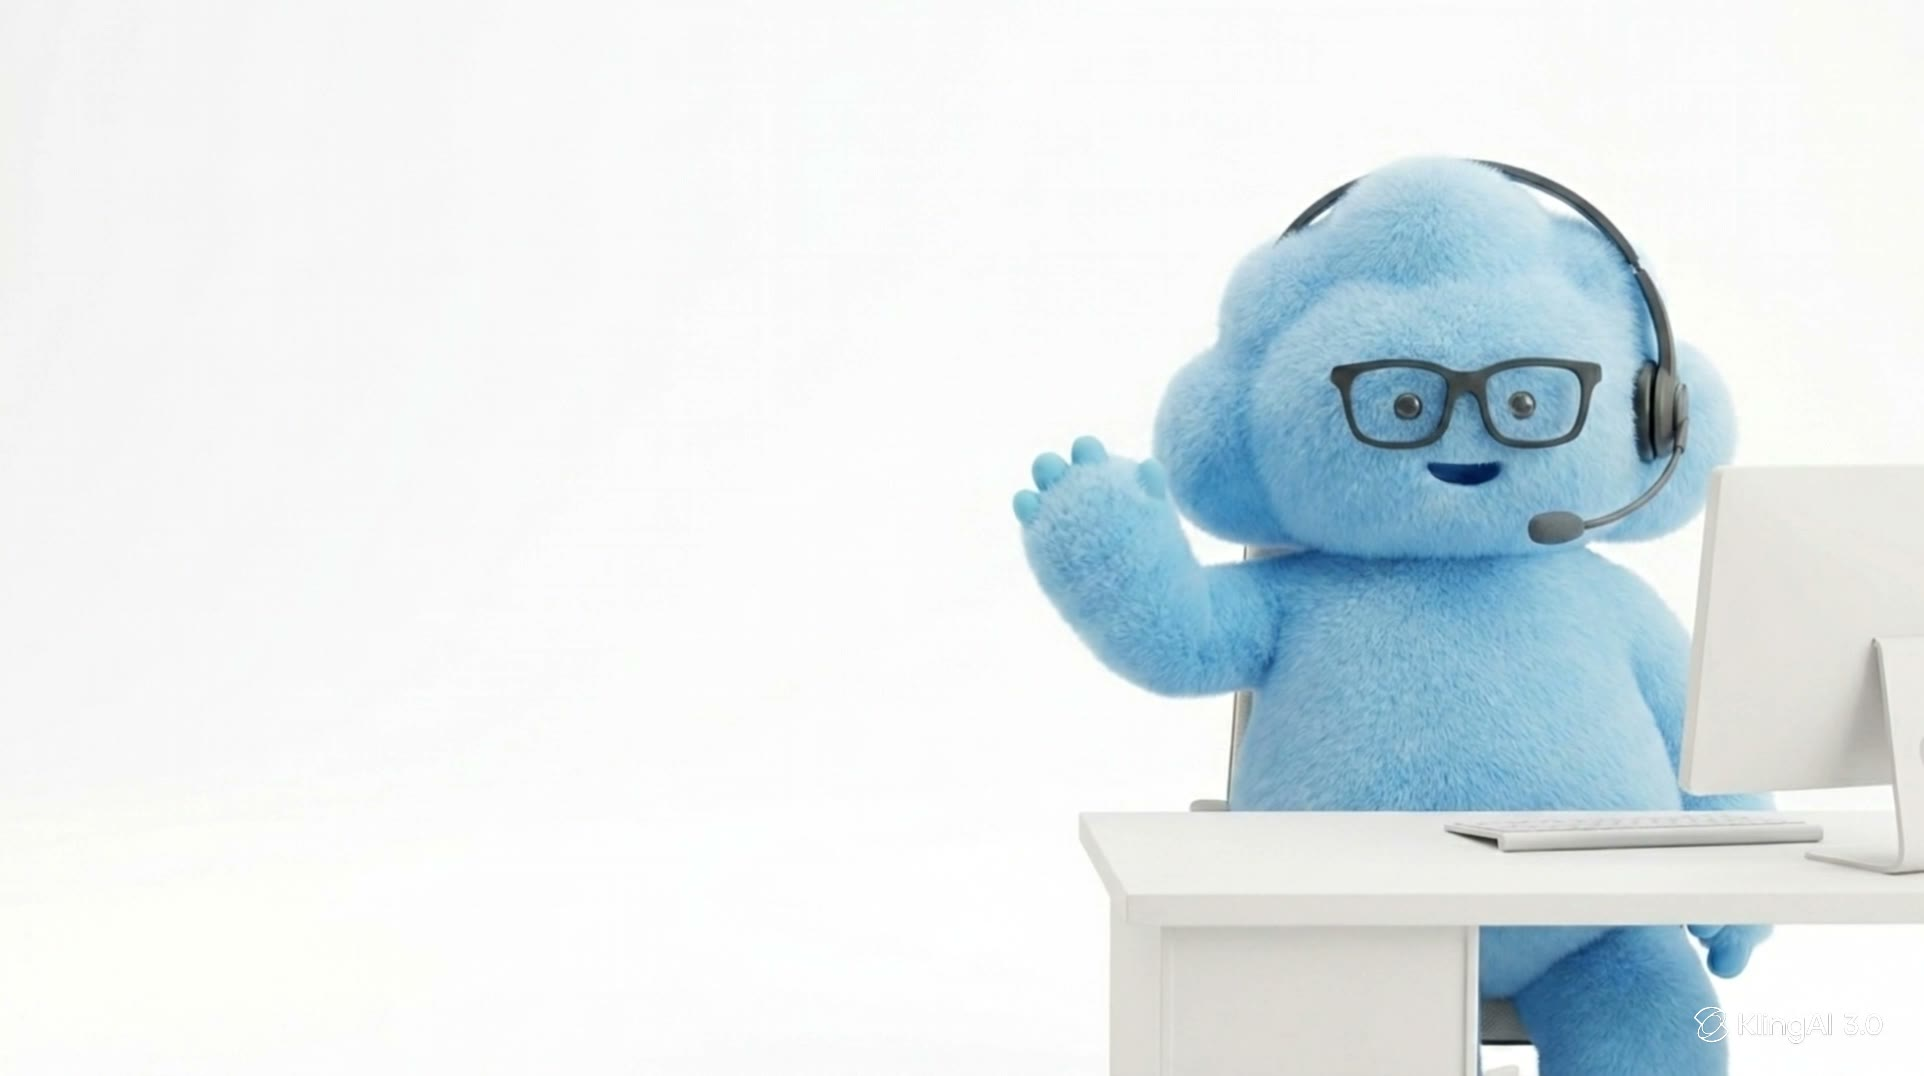
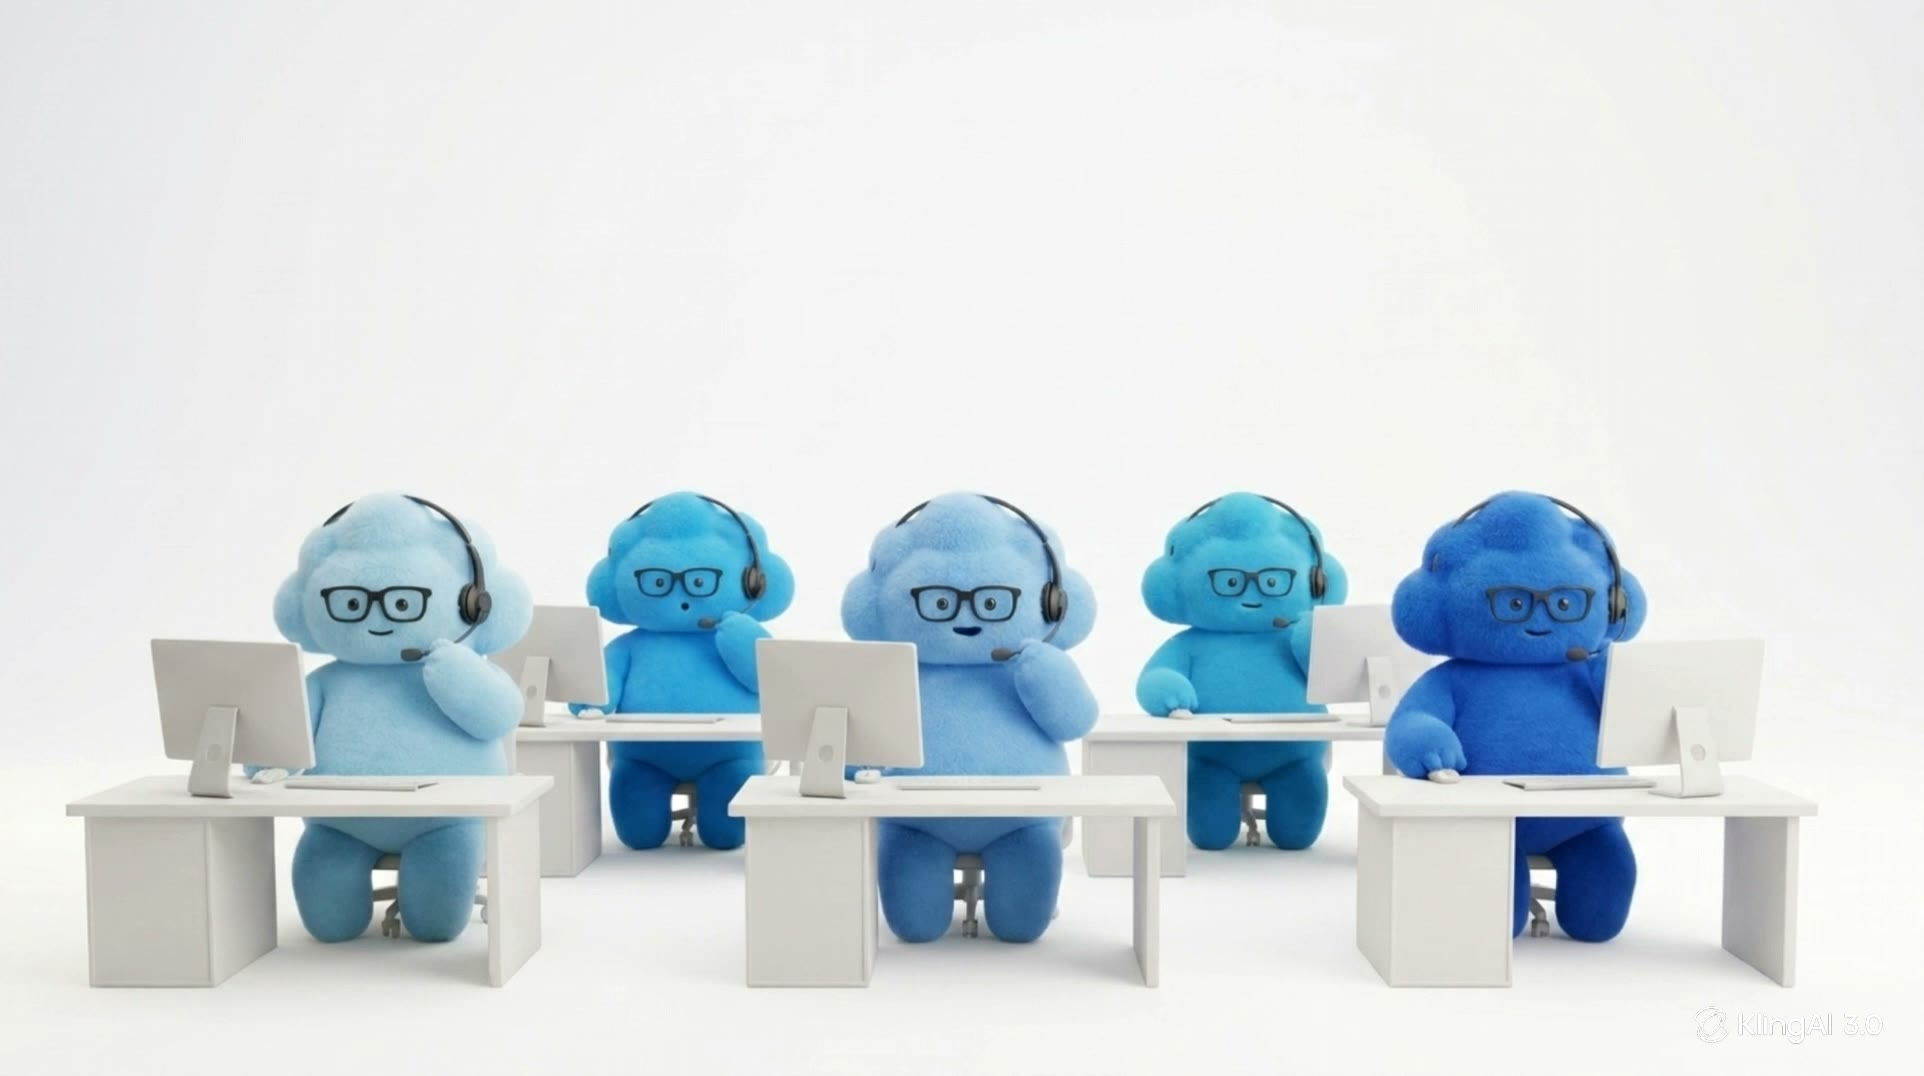
feat(landing): play-on-scroll (smooth) + magnetic snap to endpoints
- Stop scrubbing currentTime (was choppy / didn't advance). Scroll now just
  triggers the clip to PLAY through (smooth native playback); wording fades by
  whichever leads, scroll or playback, so it never overlaps the dock.
- Magnetic snap: stopping inside the entry band pulls to the nearest endpoint
  (back to hero, or down into the desk which plays the zoom). Released past the
  end so the desk sticks with the sideways selector.
- Poster fixed to the first frame (5 mascots).

Preview only.

diff --git a/app/components/AgentDeskReveal.tsx b/app/components/AgentDeskReveal.tsx
@@ -1,16 +1,18 @@
 "use client"
 
 /**
- * THE HERO. One scene, no second mascot row. At rest it's the hero: the
- * headline/CTAs over the same 5 mascots. As you scroll, the wording scrolls
- * up and fades while those exact mascots zoom in (one continuous clip, white
- * dropped via mix-blend-multiply on cream so it matches the brand), landing
- * on one mascot who waves. Then the live voice dock appears - talk to the AI
- * receptionist in-browser via /api/demo/web-call (demo agent only).
+ * THE HERO. One scene. At rest it's the hero: headline/CTAs over the 5
+ * mascots (clip frame 0). As you scroll, the wording scrolls up and fades and
+ * the zoom clip PLAYS through (native playback = smooth; not scrubbed), those
+ * same mascots pushing in until one waves. Then the live voice dock appears -
+ * talk to the AI receptionist in-browser via /api/demo/web-call (demo agent).
  *
- * Hero copy is passed as children so page.tsx keeps owning it (DemoCallButtons
- * etc). Prototype: one desk; sideways row of 5 is next. Mobile/reduced-motion
- * fall back to a static hero + autoplay clip + talk dock.
+ * Playback, not scroll-scrubbing: scrubbing currentTime per scroll frame was
+ * choppy, and a cut on fast mid-zoom scroll is acceptable by design. Scroll
+ * only (a) scrolls the wording up and (b) triggers play once.
+ *
+ * Hero copy comes in as children (page.tsx keeps DemoCallButtons). Prototype:
+ * one desk. Mobile/reduced-motion: static hero + autoplay clip + dock.
  */
 
 import React, { useCallback, useEffect, useRef, useState } from 'react'
@@ -25,16 +27,15 @@ const norm = (v: number, a: number, b: number) => clamp((v - a) / (b - a), 0, 1)
 const DESK = { vertical: 'carservice', name: "Steve's Car Service", tag: 'Airport rides · dispatch · booking' }
 const ROSTER = ['HVAC', 'Electrical', "Steve's Car Service", 'Dentist', 'Lawyer']
 const ACTIVE = 2
-const ZOOM_P = 0.82
 
 export default function AgentDeskReveal({ children }: { children?: React.ReactNode }) {
   const trackRef = useRef<HTMLDivElement>(null)
   const videoRef = useRef<HTMLVideoElement>(null)
-  const dockRef = useRef<HTMLDivElement>(null)
   const heroRef = useRef<HTMLDivElement>(null)
-  const pRef = useRef(0)
+  const playedRef = useRef(false)
   const [reduced, setReduced] = useState(false)
   const [ready, setReady] = useState(false)
+  const [zoomDone, setZoomDone] = useState(false)
 
   const clientRef = useRef<RetellWebClient | null>(null)
   const [phase, setPhase] = useState<Phase>('idle')
@@ -85,38 +86,65 @@ export default function AgentDeskReveal({ children }: { children?: React.ReactNo
 
   const toggleMute = useCallback(() => { const c = clientRef.current; if (!c) return; if (muted) { c.unmute(); setMuted(false) } else { c.mute(); setMuted(true) } }, [muted])
 
+  // Move the wording up by whichever is further: the user's scroll OR the
+  // clip's playback - so once it's zooming the copy always clears the dock,
+  // even if you stopped scrolling. Scroll only triggers play (no scrubbing).
   useEffect(() => {
     if (reduced) return
-    const onScroll = () => {
-      const el = trackRef.current; if (!el) return
-      const total = el.offsetHeight - window.innerHeight
-      pRef.current = total > 0 ? clamp(-el.getBoundingClientRect().top / total, 0, 1) : 0
-    }
-    let raf = 0, cur = 0
+    let raf = 0
     const render = () => {
-      const p = pRef.current
-      const v = videoRef.current
-      if (v && v.duration && !Number.isNaN(v.duration)) {
-        const target = norm(p, 0, ZOOM_P) * v.duration
-        cur += (target - cur) * 0.2; if (Math.abs(target - cur) < 0.004) cur = target
-        try { v.currentTime = cur } catch {}
+      const el = trackRef.current, v = videoRef.current
+      if (el) {
+        const total = el.offsetHeight - window.innerHeight
+        const p = total > 0 ? clamp(-el.getBoundingClientRect().top / total, 0, 1) : 0
+        const scrollUp = norm(p, 0.02, 0.3)
+        const vidUp = v && v.duration ? norm(v.currentTime, 0, v.duration * 0.55) : 0
+        const up = Math.max(scrollUp, vidUp)
+        if (heroRef.current) {
+          heroRef.current.style.transform = `translateY(${-up * 26}vh)`
+          heroRef.current.style.opacity = String(1 - up)
+          heroRef.current.style.pointerEvents = up > 0.5 ? 'none' : 'auto'
+        }
+        if (v) {
+          if (p > 0.06 && !playedRef.current) { playedRef.current = true; v.play().catch(() => {}) }
+          if (p < 0.02 && playedRef.current) { playedRef.current = false; setZoomDone(false); try { v.pause(); v.currentTime = 0 } catch {} }
+        }
       }
-      // hero copy scrolls up + fades as the zoom begins
-      if (heroRef.current) {
-        const up = norm(p, 0.02, 0.28)
-        heroRef.current.style.transform = `translateY(${-up * 22}vh)`
-        heroRef.current.style.opacity = String(1 - up)
-        heroRef.current.style.pointerEvents = up > 0.5 ? 'none' : 'auto'
-      }
-      // talk dock + desk label reveal once we've landed on the mascot
-      const reveal = norm(p, ZOOM_P, 1)
-      if (dockRef.current) { dockRef.current.style.opacity = String(reveal); dockRef.current.style.pointerEvents = reveal > 0.6 ? 'auto' : 'none' }
       raf = requestAnimationFrame(render)
     }
+    raf = requestAnimationFrame(render)
+    return () => cancelAnimationFrame(raf)
+  }, [reduced])
+
+  // Magnetic snap: when scrolling stops inside the entry band, pull to the
+  // nearest endpoint - back to the hero, or down into the desk (which plays
+  // the zoom). Past the end it's released so the desk "sticks" with the
+  // sideways selector. Skipped once you're committed near the end.
+  useEffect(() => {
+    if (reduced) return
+    const DECIDE = 0.26 // scroll past this into the band -> magnet pulls to the desk
+    let t: ReturnType<typeof setTimeout> | undefined
+    let snapping = false
+    const onScroll = () => {
+      if (snapping) return
+      if (t) clearTimeout(t)
+      t = setTimeout(() => {
+        const el = trackRef.current; if (!el) return
+        const rect = el.getBoundingClientRect()
+        const total = el.offsetHeight - window.innerHeight
+        if (total <= 0) return
+        const absTop = rect.top + window.scrollY
+        const p = clamp(-rect.top / total, 0, 1)
+        if (p > 0.02 && p < 0.9) {
+          const targetP = p < DECIDE ? 0 : 1
+          snapping = true
+          window.scrollTo({ top: absTop + targetP * total, behavior: 'smooth' })
+          window.setTimeout(() => { snapping = false }, 750)
+        }
+      }, 130)
+    }
     window.addEventListener('scroll', onScroll, { passive: true })
-    window.addEventListener('resize', onScroll)
-    onScroll(); raf = requestAnimationFrame(render)
-    return () => { window.removeEventListener('scroll', onScroll); window.removeEventListener('resize', onScroll); cancelAnimationFrame(raf) }
+    return () => { window.removeEventListener('scroll', onScroll); if (t) clearTimeout(t) }
   }, [reduced])
 
   const ring = 1 + Math.min(level * 1.6, 0.5) + (agentTalking ? 0.06 : 0)
@@ -173,22 +201,23 @@ export default function AgentDeskReveal({ children }: { children?: React.ReactNo
 
   return (
     <section id="hero">
-      <div ref={trackRef} style={{ height: '300vh' }}>
+      <div ref={trackRef} style={{ height: '220vh' }}>
         <div className="sticky top-0 flex h-[100dvh] w-full items-center justify-center overflow-hidden bg-[#f6f5f1]">
-          {/* the ONE scene: same 5 mascots, zooms with scroll */}
-          <video ref={videoRef} src="/desk-carservice.mp4" poster="/desk-carservice-poster.jpg" muted playsInline preload="auto"
+          {/* the ONE scene: same 5 mascots, plays the zoom on scroll */}
+          <video ref={videoRef} src="/desk-carservice.mp4" poster="/desk-carservice-poster.jpg"
+            muted playsInline preload="auto" onEnded={() => setZoomDone(true)}
             className="absolute inset-0 h-full w-full object-cover mix-blend-multiply" />
-          {/* soft top scrim so the headline reads over the mascots */}
           <div className="pointer-events-none absolute inset-x-0 top-0 z-[1] h-[55%]"
             style={{ background: 'linear-gradient(to bottom,#f6f5f1 0%,#f6f5f1 26%,rgba(246,245,241,0.4) 60%,rgba(246,245,241,0) 100%)' }} />
 
-          {/* HERO COPY - scrolls up and fades */}
+          {/* HERO COPY - scrolls up + fades */}
           <div ref={heroRef} className="absolute inset-x-0 top-0 z-10 mx-auto flex w-full max-w-5xl flex-col items-center px-5 pt-24 text-center sm:pt-28">
             {children}
           </div>
 
-          {/* desk label + talk dock - reveal after the zoom lands */}
-          <div ref={dockRef} className="absolute inset-0 z-20 flex flex-col px-6" style={{ opacity: 0 }}>
+          {/* desk label + talk dock - appear once the zoom finishes */}
+          <div className="absolute inset-0 z-20 flex flex-col px-6 transition-opacity duration-500"
+            style={{ opacity: zoomDone ? 1 : 0, pointerEvents: zoomDone ? 'auto' : 'none' }}>
             <div className="flex justify-center pt-6">
               <div className="flex items-center gap-3 text-xs text-gray-400">
                 {ROSTER.map((r, i) => (